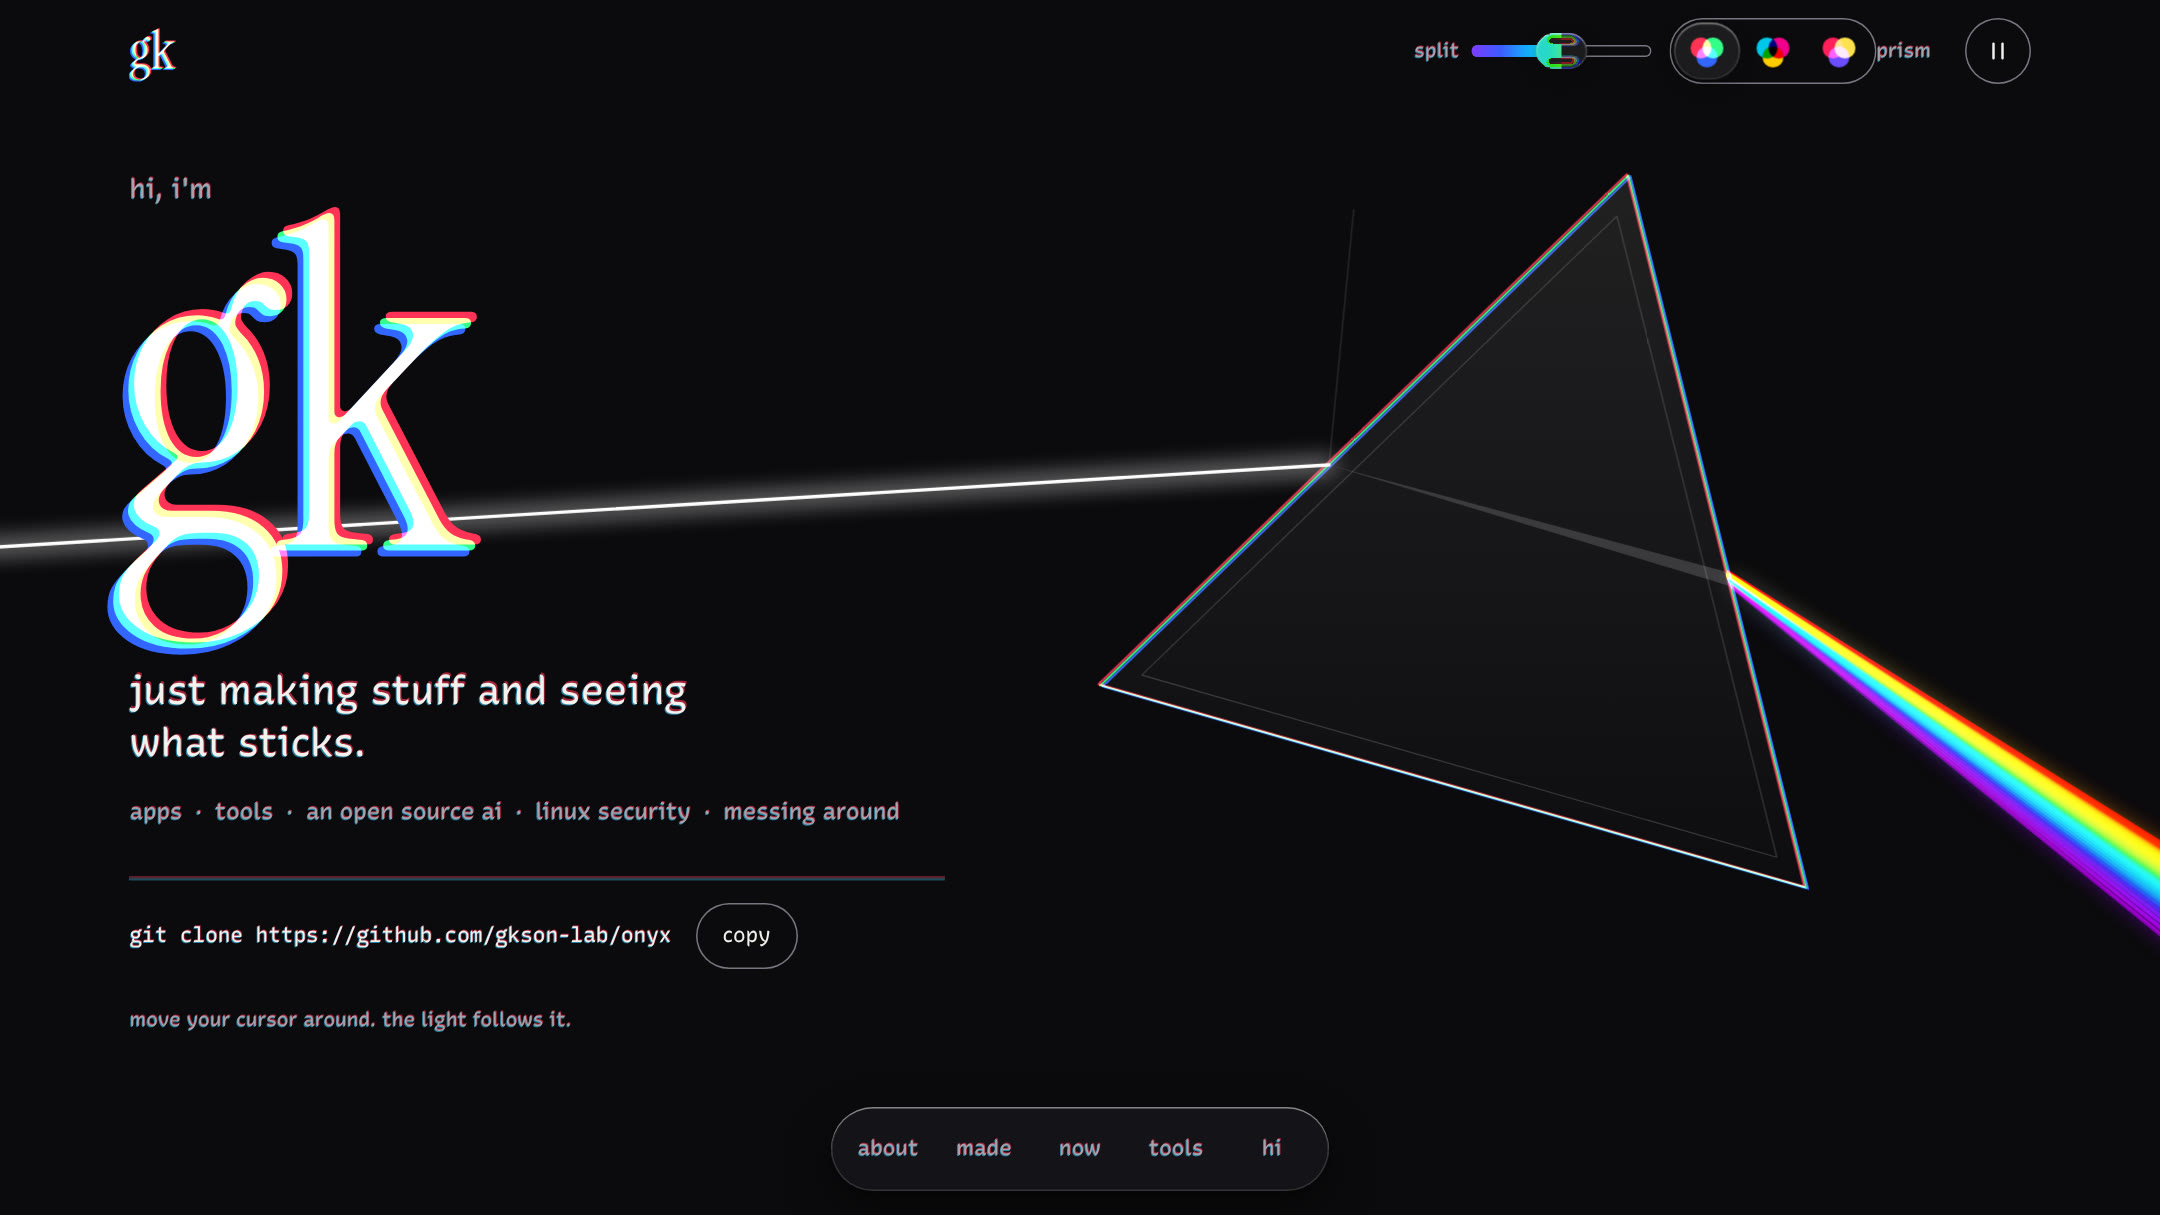
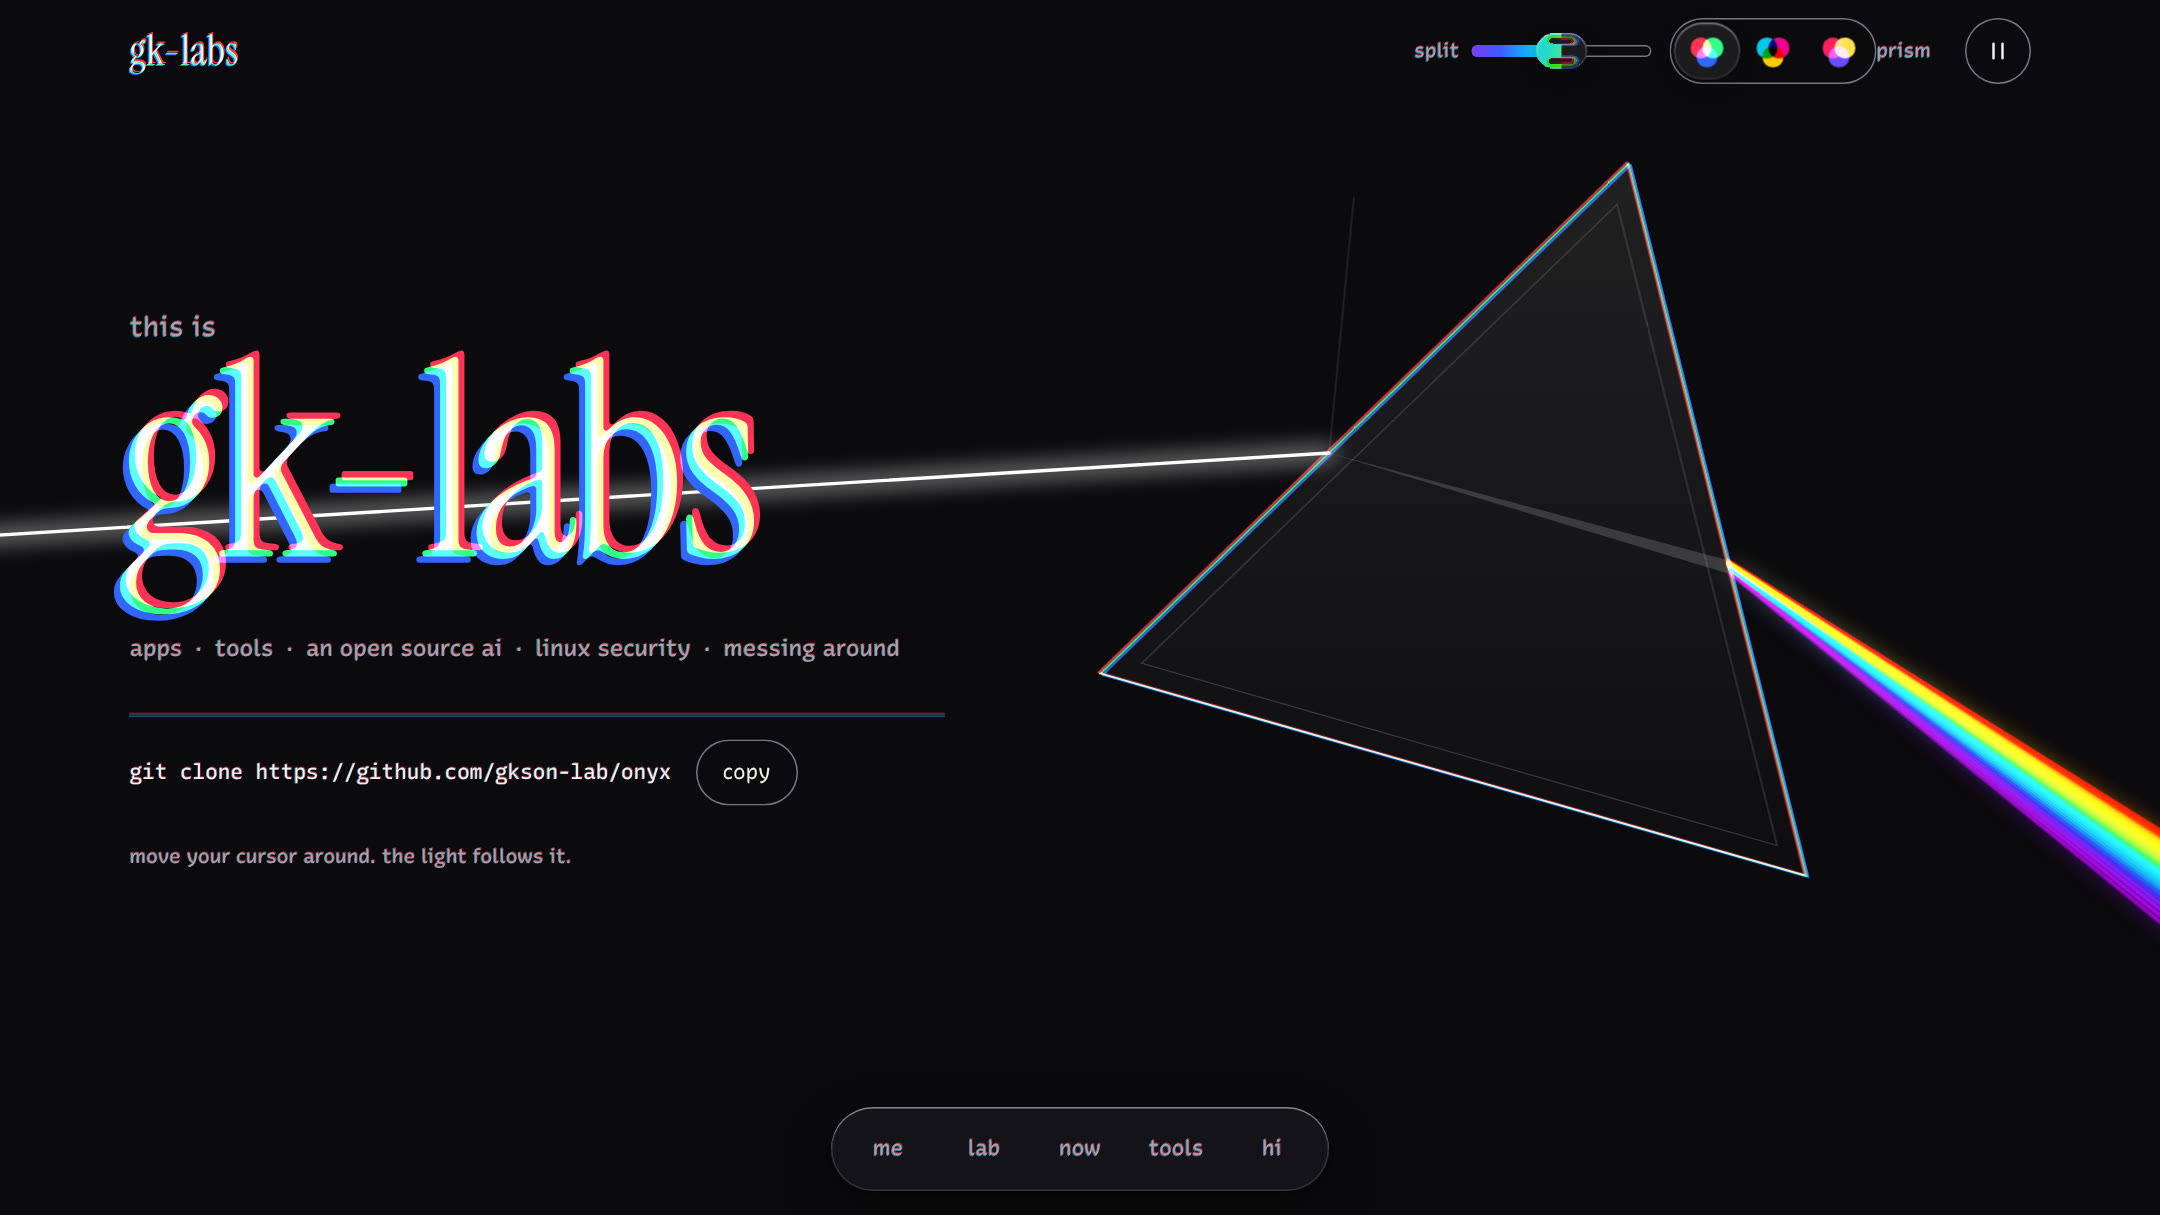
form the site around gk-labs
hero is now "this is gk-labs" with no blurb under it, followed by an about me section (also no blurb). projects become "in the lab", dock reads me / lab / now / tools / hi, and the header mark, liquid metal sign-off, title and 404 say gk-labs. readme line and banner updated to match.

diff --git a/index.html b/index.html
@@ -3,16 +3,16 @@
 <head>
   <meta charset="utf-8">
   <meta name="viewport" content="width=device-width, initial-scale=1">
-  <title>gk</title>
-  <meta name="description" content="gk: just making stuff and seeing what sticks. apps, tools, an open source ai called onyx, and some linux security.">
+  <title>gk-labs</title>
+  <meta name="description" content="gk-labs: apps, tools, an open source ai called onyx, and some linux security. made by gk.">
   <meta name="author" content="gk">
   <meta name="color-scheme" content="dark light">
   <meta name="theme-color" content="#0b0b0d" media="(prefers-color-scheme: dark)">
   <meta name="theme-color" content="#f4f1ea" media="(prefers-color-scheme: light)">
   <link rel="canonical" href="https://gkson-lab.github.io/gkson-lab/">
   <meta property="og:type" content="website">
-  <meta property="og:title" content="gk">
-  <meta property="og:description" content="just making stuff and seeing what sticks.">
+  <meta property="og:title" content="gk-labs">
+  <meta property="og:description" content="apps, tools, an open source ai and some linux security. made by gk.">
   <meta property="og:url" content="https://gkson-lab.github.io/gkson-lab/">
   <link rel="icon" href="favicon.svg" type="image/svg+xml">
   <link rel="preload" href="assets/fonts/instrument-serif.woff2" as="font" type="font/woff2" crossorigin>
@@ -40,7 +40,7 @@
   <a class="skip" href="#main">skip to the content</a>
 
   <header class="top">
-    <a class="home ca ca-sm" href="#top" data-text="gk" aria-label="gk, back to the top">gk</a>
+    <a class="home ca ca-sm" href="#top" data-text="gk-labs" aria-label="gk-labs, back to the top">gk-labs</a>
 
     <div class="controls">
       <div class="split">
@@ -85,8 +85,8 @@
 
   <nav class="dock" aria-label="sections">
     <span class="lens dock-lens" aria-hidden="true"></span>
-    <a href="#about">about</a>
-    <a href="#made">made</a>
+    <a href="#about">me</a>
+    <a href="#made">lab</a>
     <a href="#now">now</a>
     <a href="#tools">tools</a>
     <a href="#hi">hi</a>
@@ -122,9 +122,8 @@
       </svg>
 
       <div class="hero-copy">
-        <p class="hello">hi, i'm</p>
-        <h1 id="hero-title" class="ca ca-xl" data-text="gk">gk</h1>
-        <p class="lede">just making stuff and seeing what sticks.</p>
+        <p class="hello">this is</p>
+        <h1 id="hero-title" class="ca ca-xl" data-text="gk-labs">gk-labs</h1>
         <p class="meta">
           <span>apps</span><span class="dot" aria-hidden="true">·</span><span>tools</span><span class="dot" aria-hidden="true">·</span><span>an open source ai</span><span class="dot" aria-hidden="true">·</span><span>linux security</span><span class="dot" aria-hidden="true">·</span><span>messing around</span>
         </p>
@@ -141,11 +140,12 @@
     </section>
 
     <section class="about" id="about" aria-labelledby="about-title">
+      <p class="kicker">about me</p>
       <h2 id="about-title" class="ca ca-lg" data-text="how did we get here?">how did we get here?</h2>
       <div class="about-body">
         <p class="say">honestly, by saying yes to whatever looked interesting that week.</p>
         <div class="about-text">
-          <p>i'm gk. i make things that are useful, things that are useless, and a lot of things that start as one and turn into the other.</p>
+          <p>i'm gk. gk-labs is where everything i make ends up: the useful stuff, the useless stuff, and a lot that started as one and turned into the other.</p>
           <p>right now that means an open source ai called onyx, a 150 tool app it lives inside, a task manager that tells you more than it probably should, and helping out on oreon and its security side.</p>
           <p>most of it is javascript, some of it is python, and all of it gets written on windows.</p>
         </div>
@@ -153,7 +153,7 @@
     </section>
 
     <section class="made" id="made" aria-labelledby="made-title">
-      <h2 id="made-title" class="ca ca-lg" data-text="things i've made">things i've made</h2>
+      <h2 id="made-title" class="ca ca-lg" data-text="in the lab">in the lab</h2>
 
       <div class="made-grid">
         <article class="focal" aria-labelledby="onyx-title">
@@ -238,8 +238,8 @@
 
   <footer class="hi" id="hi" aria-labelledby="hi-title">
     <div class="hi-grid">
-      <div class="mark" data-shader="mark" role="img" aria-label="gk">
-        <span class="ca mark-fallback" data-text="gk" aria-hidden="true">gk</span>
+      <div class="mark" data-shader="mark" role="img" aria-label="gk-labs">
+        <span class="ca mark-fallback" data-text="gk-labs" aria-hidden="true">gk-labs</span>
         <div class="gl" aria-hidden="true"></div>
       </div>
 
@@ -247,7 +247,7 @@
         <h2 id="hi-title" class="ca ca-lg" data-text="say hi">say hi</h2>
         <p>github is the best way to reach me. open an issue, star something, fork something, or just poke around.</p>
         <p class="hi-link"><a class="big-link" href="https://github.com/gkson-lab">github.com/gkson-lab</a></p>
-        <p class="credits">made by gk, 2026. set in instrument serif and recursive. <a href="https://github.com/gkson-lab/gkson-lab">this site's source</a></p>
+        <p class="credits">gk-labs is made by gk, 2026. set in instrument serif and recursive. <a href="https://github.com/gkson-lab/gkson-lab">this site's source</a></p>
       </div>
     </div>
   </footer>

diff --git a/assets/js/shaders.js b/assets/js/shaders.js
@@ -92,12 +92,13 @@ function start() {
   // ---------- each piece ----------
 
   const specs = {
-    // footer sign-off: liquid metal "gk" (the liquid logo idea), cmyk halftone in print
+    // footer sign-off: liquid metal "gk-labs" (the liquid logo idea), cmyk halftone in print
     mark: {
       async build(host, t) {
         await fontsReady;
         const box = host.getBoundingClientRect();
-        const size = Math.min(box.height * 0.82, box.width * 0.5);
+        const size = Math.min(box.height * 0.7, box.width / 3.8);
+        const base = box.height * 0.5 + size * 0.28;
         if (t === 'print') {
           // three plates, slightly out of register, then screened into dots
           const k = 2;
@@ -112,7 +113,7 @@ function start() {
           const off = size * 0.035 * k;
           [['#00b4ff', -off, -off * 0.4], ['#fc519f', 0, 0], ['#ffd800', off, off * 0.4]].forEach(([c, dx, dy]) => {
             x.fillStyle = c;
-            x.fillText('gk', cv.width / 2 + dx, box.height * 0.74 * k + dy);
+            x.fillText('gk-labs', cv.width / 2 + dx, base * k + dy);
           });
           return {
             key: 'mark-halftone',
@@ -128,7 +129,7 @@ function start() {
             }, sizing({ fit: 'cover' }))
           };
         }
-        const cv = wordCanvas(box, 'gk', { size: size, x: box.width / 2, y: box.height * 0.74, align: 'center', fill: '#000000', letterSpacing: -size * 0.04 });
+        const cv = wordCanvas(box, 'gk-labs', { size: size, x: box.width / 2, y: base, align: 'center', fill: '#000000', letterSpacing: -size * 0.04 });
         if (!host._metal) host._metal = load(URL.createObjectURL((await toProcessedLiquidMetal(cv.toDataURL('image/png'))).pngBlob));
         const warm = t === 'thermal';
         return {

diff --git a/assets/css/site.css b/assets/css/site.css
@@ -303,7 +303,7 @@ a:active { opacity: 0.75; }
 
 .home {
   font-family: var(--serif);
-  font-size: 2.25rem;
+  font-size: 1.75rem;
   text-decoration: none;
   background: none;
   min-width: 44px;
@@ -627,12 +627,12 @@ a:active { opacity: 0.75; }
   display: block;
   width: max-content;
   font-family: var(--serif);
-  font-size: clamp(7rem, 26vw, 19rem);
-  line-height: 0.78;
-  letter-spacing: -0.045em;
+  font-size: clamp(4.25rem, 12.5vw, 13rem);
+  line-height: 0.82;
+  letter-spacing: -0.035em;
   margin: 0 0 0.2em -0.05em;
   padding-right: 0.08em;
-  --ca-base: 0.024em;
+  --ca-base: 0.042em;
 }
 .lede {
   font-size: clamp(1.25rem, 2.2vw, 1.625rem);
@@ -692,6 +692,7 @@ main > section:not(.hero) {
 }
 
 /* about: heading, then a big line on the left and the plain story on the right */
+.about .kicker { margin-bottom: 12px; }
 .about .ca-lg { margin-bottom: 48px; }
 .about-body {
   display: grid;
@@ -920,14 +921,15 @@ main > section:not(.hero) {
   position: relative;
   width: 100%;
   max-width: 640px;
-  aspect-ratio: 16 / 9;
+  aspect-ratio: 12 / 5;
   display: grid;
   place-items: center;
 }
 .mark-fallback {
   font-family: var(--serif);
-  font-size: clamp(9rem, 22vw, 17rem);
+  font-size: clamp(3.5rem, 9vw, 7.5rem);
   line-height: 1;
+  white-space: nowrap;
   --ca-base: 0.03em;
 }
 .mark > .gl { inset: 0; }

diff --git a/404.html b/404.html
@@ -3,8 +3,8 @@
 <head>
   <meta charset="utf-8">
   <meta name="viewport" content="width=device-width, initial-scale=1">
-  <title>gk · not here</title>
-  <meta name="description" content="this page isn't here. head back to gk's page.">
+  <title>gk-labs · not here</title>
+  <meta name="description" content="this page isn't here. head back to gk-labs.">
   <meta name="author" content="gk">
   <meta name="robots" content="noindex">
   <meta name="color-scheme" content="dark light">
@@ -45,7 +45,7 @@
     </div>
     <p class="say">this page split into too many colors and wandered off.</p>
     <p class="muted">the link might be old, or it never existed. either way, the good stuff is back home.</p>
-    <p><a class="big-link" href="/gkson-lab/">back to gk</a></p>
+    <p><a class="big-link" href="/gkson-lab/">back to gk-labs</a></p>
   </main>
 </body>
 </html>

diff --git a/DESIGN.md b/DESIGN.md
@@ -1,6 +1,6 @@
 # gk design contract
 
-local design contract for gk's about page (`index.html`, `404.html`, `assets/`). it follows the antislop
+local design contract for the gk-labs site, with a section about gk (`index.html`, `404.html`, `assets/`). it follows the antislop
 template and overrides the global baseline `DESIGN.md` from the antislop harness. everything below is
 design data: identity, palette, type, motion, states.
 
@@ -10,10 +10,10 @@ Dial: ENERGY 4 / RHYTHM 5 / MOTION 3
 
 ## 1. context (audience, environment, purpose)
 
-- **who it's for:** people who land on gk's github profile and want to know who gk is and what gk makes.
+- **who it's for:** people who land on gk's github profile and want to see gk-labs (what gk makes) and who gk is.
 - **where it lives:** github pages, served from the `gkson-lab/gkson-lab` profile repository. static files, no build step.
-- **what it has to do:** say who gk is in gk's own relaxed voice, point at the real projects, show what's being
-  pushed right now, and be a little bit of a toy while doing it.
+- **what it has to do:** open on gk-labs, then say who gk is in gk's own relaxed voice (no tagline under the
+  name), point at the real projects, show what's being pushed right now, and be a little bit of a toy.
 
 ## 2. personality & "what we are not"
 
@@ -34,8 +34,8 @@ Dial: ENERGY 4 / RHYTHM 5 / MOTION 3
 | prism + spectrum svg in the hero | the core image; computed with snell's law and cauchy dispersion, so it reacts honestly to the light angle and the split amount. |
 | three chromatic themes | the same light split three ways: additive (prism), subtractive (print), heat (thermal). each one changes the split channels, the spectrum and every shader. |
 | liquid-glass dock, slider, theme picker | glass is for controls only. the lens marks the current section / value / theme and refracts what's under it. |
-| liquid metal "gk" (paper shaders) | the sign-off, straight from the liquid logo library. its red/blue channel shift is the split again. |
-| cmyk halftone "gk" (paper shaders, print theme) | in print the sign-off is screened into dots from three misregistered plates. |
+| liquid metal "gk-labs" (paper shaders) | the sign-off, straight from the liquid logo library. its red/blue channel shift is the split again. |
+| cmyk halftone "gk-labs" (paper shaders, print theme) | in print the sign-off is screened into dots from three misregistered plates. |
 | gem smoke "onyx" (paper shaders) | onyx is a stone, so the word becomes one, with the spectrum moving inside it. |
 | fluted glass over the spectrum (paper shaders) | the tools band is white light seen through ribbed glass: glass and split in one piece. |
 | paper texture (paper shaders, print theme) | print is ink on paper, so there is paper under it. tones stay between `#e6e1d5` and `#f4f1ea`. |
@@ -125,7 +125,7 @@ rgb component. thermal's core lands on a warm white. the letter core is always f
 - **body + code:** recursive (variable), one file. body uses `CASL 1` (casual, the relaxed part) at `wght 400`.
   code lines use the same family at `MONO 1`. two families total. shaders draw their words in instrument serif
   too, so the shader type matches the html type.
-- **scale:** hero wordmark `clamp(7rem, 26vw, 19rem)` over body `1.0625rem` (ratio > 6.5:1). section titles
+- **scale:** hero wordmark "gk-labs" `clamp(4.25rem, 12.5vw, 13rem)` over body `1.0625rem` (ratio >= 4:1). section titles
   `clamp(2.75rem, 8vw, 6rem)`. smallest text `0.8125rem`.
 - **case:** every word on the page is lowercase in the source. `text-transform: lowercase` is a backstop for
   live data from the github api.
@@ -157,5 +157,5 @@ rgb component. thermal's core lands on a warm white. the letter core is always f
   2. empty: "nothing pushed lately. probably messing around offline."
   3. error: says what failed (network, timeout or github's rate limit) with a "try again" button.
   4. success: the list, plus "checked just now" that ages in place.
-  5. default: the curated "things i've made" list is static html and never depends on the api.
+  5. default: the curated "in the lab" list is static html and never depends on the api.
 - **copy button:** success says "copied", failure says "couldn't copy, it's selected for you" and selects the text.

diff --git a/README.md b/README.md
@@ -1,11 +1,11 @@
 
 ## how did we get here? 👋
 
-i'm **gk**, just making stuff and seeing what sticks.
+i'm **gk**, and this is **gk-labs**.
 
-<a href="https://gkson-lab.github.io/gkson-lab/"><img src="assets/readme/site-preview.jpg" alt="gk's site: a big lowercase gk next to a glass prism splitting a beam of light into a spectrum" width="100%"></a>
+<a href="https://gkson-lab.github.io/gkson-lab/"><img src="assets/readme/site-preview.jpg" alt="the gk-labs site: the word gk-labs next to a glass prism splitting a beam of light into a spectrum" width="100%"></a>
 
-🔗 **[gkson-lab.github.io/gkson-lab](https://gkson-lab.github.io/gkson-lab/)** · my site, go poke the prism
+🔗 **[gkson-lab.github.io/gkson-lab](https://gkson-lab.github.io/gkson-lab/)** · gk-labs, go poke the prism
 
 - helping with Oreon and Oreon security over there ➡
 - making useful or useless apps and tools
